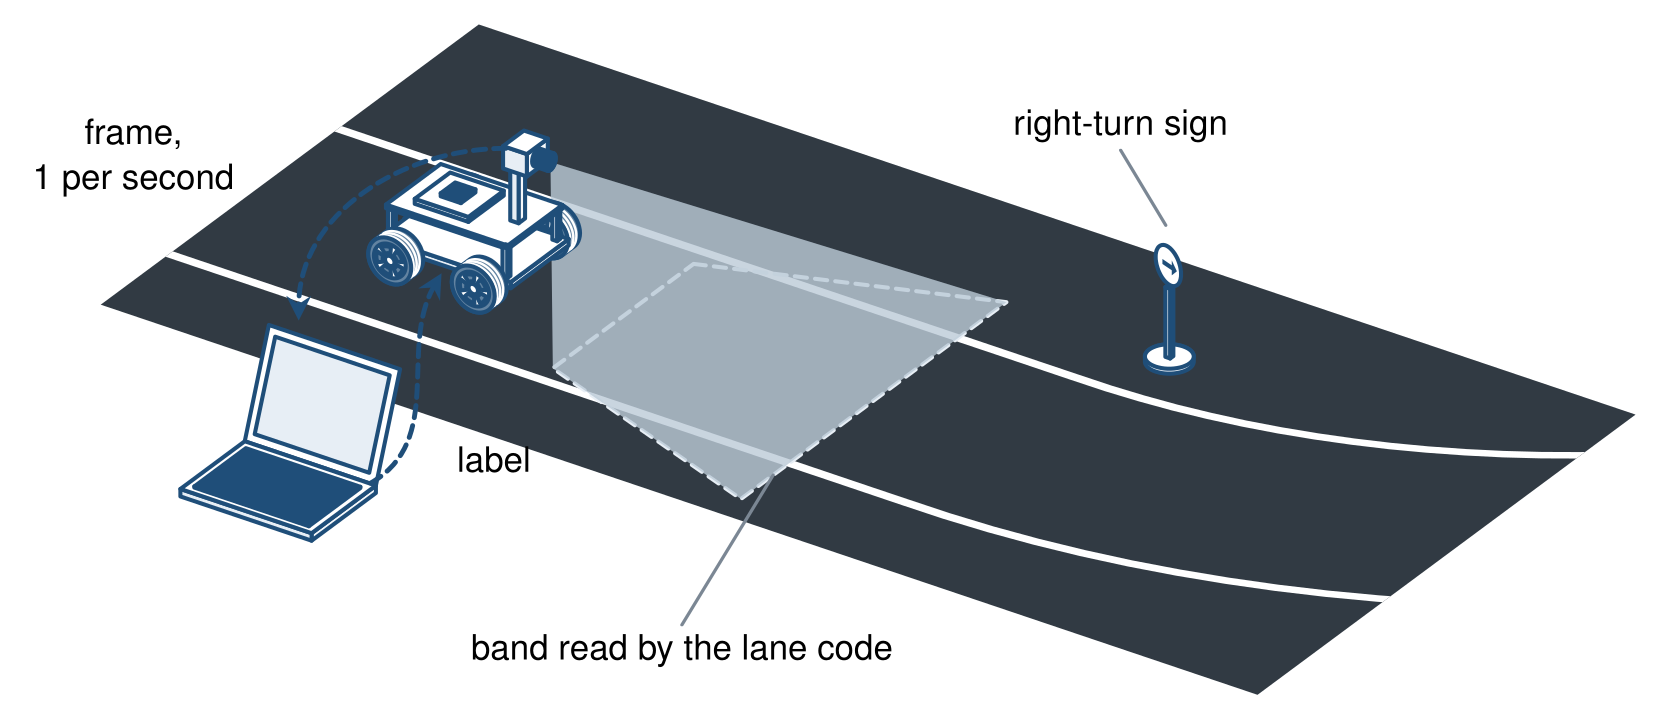
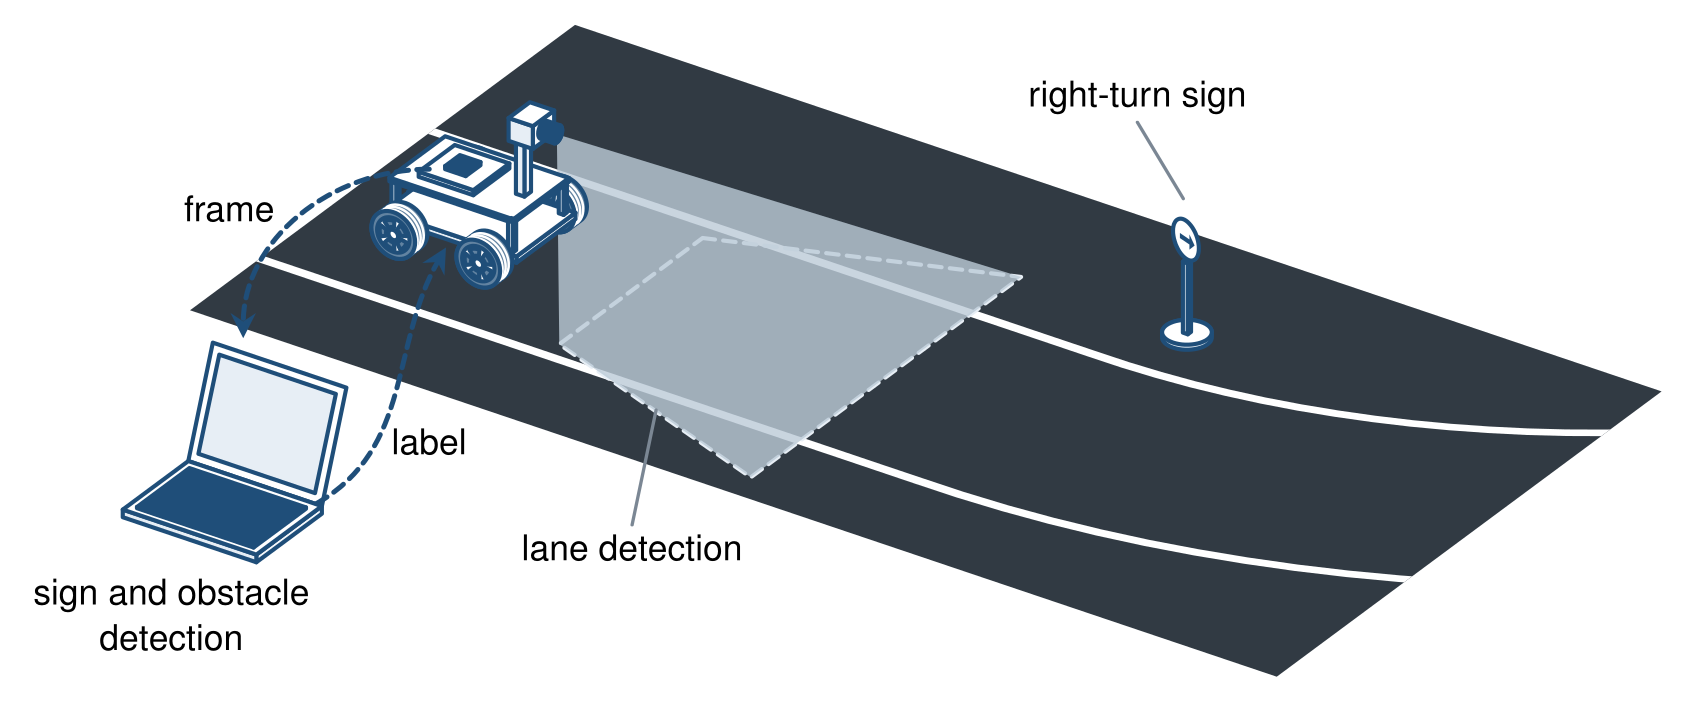
Top figure: lane detection on the car, sign and obstacle detection on the laptop, no rates

diff --git a/README.md b/README.md
@@ -2,7 +2,7 @@
 
 A camera-only model car that drives the course of the 2025 Autonomous Driving Contest at Chung-Ang University. It keeps its lane on the black floor of the course and passes a hill, a right turn, a gate, parked cars and a traffic light. Lane following runs on the car's Raspberry Pi; YOLOv8n runs on a laptop beside the track and sends back only the label the car needs.
 
-![The car on the black track with white lane lines, the band of floor its lane code reads, a right-turn sign where the lane turns right, and the laptop that receives one frame a second and returns a label](docs/scene.png)
+![The car on the black track with white lane lines and lane detection on the car from the floor in front of its camera, a right-turn sign where the lane turns right, and a laptop beside the track that receives frames from the car's computer, detects signs and obstacles, and returns a label](docs/scene.png)
 
 Excellence Award at the contest. On 10,234 frames recorded by the car's camera on the track, the HSV white mask lets through a median of 5 white regions per frame where the grayscale threshold of the first version lets through 9, and the region filter keeps the two largest for steering.
 
